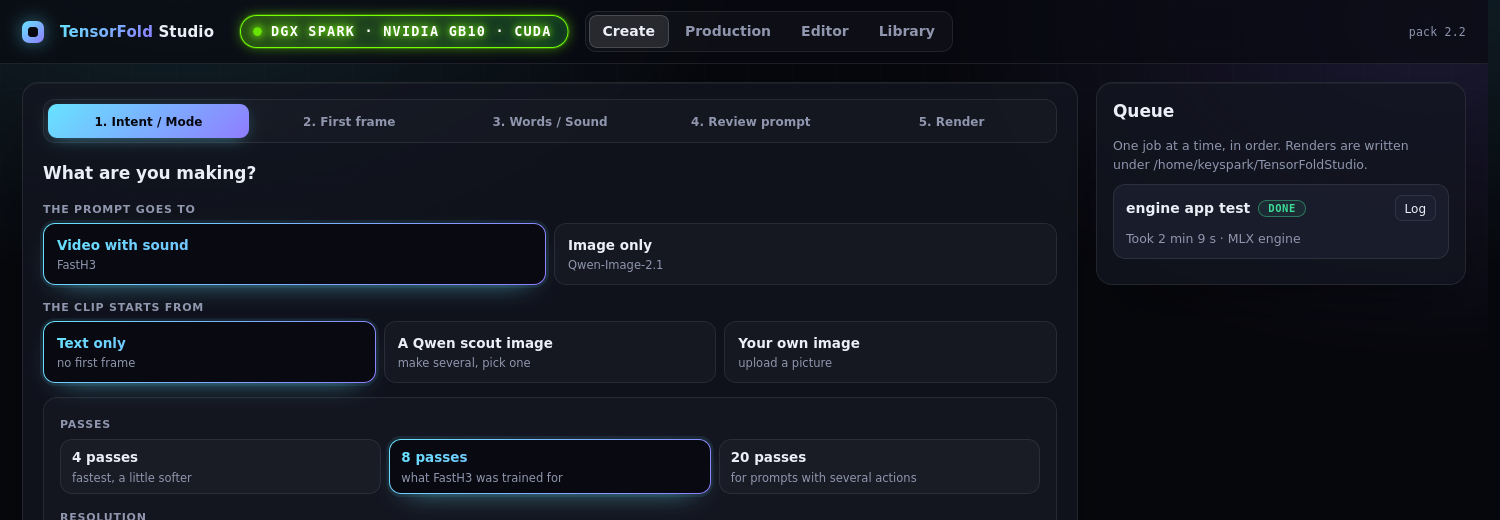
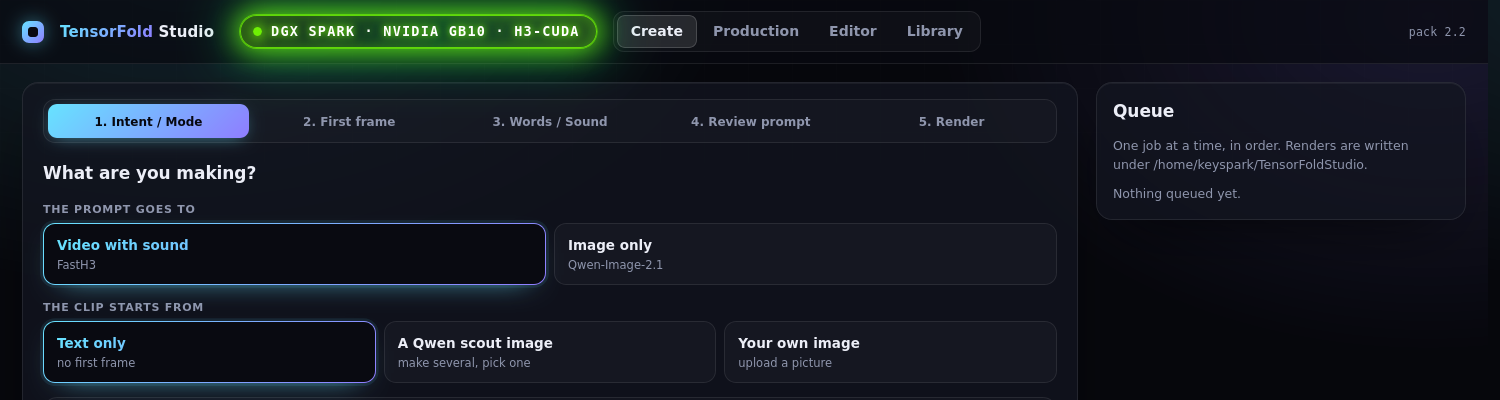
Build badge names the engine: H3-CUDA on a DGX Spark, H3-METAL on a Mac
Also SPARK_TIMING=1 (how long each workflow node ran) and TF_H3_CHECK=2 (which int8 rounding costs what).

Claude-Session: https://claude.ai/code/session_01PrUiTH1dGwnVKrpFLkoGHj

diff --git a/spark/tensorfold_h3/__init__.py b/spark/tensorfold_h3/__init__.py
@@ -182,7 +182,78 @@ class Blocks:
                              f"cosine {cosine(got, want):.5f}, relative error {error:.4f}")
             del want
 
+    def sources(self, args):
+        """TF_H3_CHECK=2: which rounding costs what. ComfyUI's own block with one of the engine's int8 roundings
+        emulated at a time, against the same block untouched; errors are relative to what the block adds."""
+        import comfy.ops
+
+        options = args["transformer_options"]
+
+        def rows(x, group=0):
+            # int8 with a scale a row (or a row and `group` columns), as the engine rounds activations
+            shape = x.shape
+            y = x.float().reshape(shape[0], -1, group) if group else x.float().reshape(shape[0], 1, -1)
+            top = y.abs().amax(dim=-1, keepdim=True).clamp_min(1e-12)
+            return ((y * (127.0 / top)).round().clamp(-127, 127) * (top / 127.0)).reshape(shape).to(x.dtype)
+
+        def split(x, count=128):
+            # the same, with the `count` channels that peak highest rounded on a scale of their own
+            y = x.float()
+            peaks = y.abs().amax(dim=0)
+            chosen = torch.zeros_like(peaks, dtype=torch.bool)
+            chosen[torch.topk(peaks, count).indices] = True
+            out = torch.empty_like(y)
+            out[:, chosen] = rows(y[:, chosen])
+            out[:, ~chosen] = rows(y[:, ~chosen])
+            crests.append(float((y.abs().amax(dim=1) / y.pow(2).mean(dim=1).sqrt()).mean()))
+            crests.append(float((y[:, ~chosen].abs().amax(dim=1) / y[:, ~chosen].pow(2).mean(dim=1).sqrt()).mean()))
+            return out.to(x.dtype)
+
+        crests = []
+
+        def wrap_input(module, quant):
+            original = module.forward
+            module.forward = lambda x, *a, **k: original(quant(x), *a, **k)
+            return lambda: setattr(module, "forward", original)
+
+        h = args["img"].clone()
+        for index in (0, 12, 25, 40, 49):
+            block = self.model.blocks[index]
+            # the stream as this block meets it
+            x = args["img"].clone()
+            for before in self.model.blocks[:index]:
+                x = before(x, args["t_emb"], args["mod_segments"], args["rope_freqs"], transformer_options=options)
+            want = block(x.clone(), args["t_emb"], args["mod_segments"], args["rope_freqs"], transformer_options=options)
+            added = float((want.float() - x.float()).norm())
+            xf = x.float()
+            crest = float((xf.abs().amax(dim=1) / xf.pow(2).mean(dim=1).sqrt()).mean())
+            peaks = xf.abs().amax(dim=0)
+            top = torch.topk(peaks, 64).values
+            report = [f"block {index}: stream crest {crest:.1f} (a row's largest over its rms), the 64 largest channels peak at "
+                      f"{float(top.min()):.1f} to {float(top.max()):.1f} against a median channel peak of {float(peaks.median()):.2f}"]
+            tests = {"q k v input rows": [(block.attn.qkv_proj, rows)], "attention out input rows": [(block.attn.out_proj, rows)],
+                     "mlp input rows": [(block.mlp.fc1, rows)], "all three": [(block.attn.qkv_proj, rows), (block.attn.out_proj, rows), (block.mlp.fc1, rows)],
+                     "all three, 128 channels apart": [(block.attn.qkv_proj, split), (block.attn.out_proj, split), (block.mlp.fc1, split)],
+                     "all three, 32 apart": [(block.attn.qkv_proj, lambda x: split(x, 32)), (block.attn.out_proj, lambda x: split(x, 32)), (block.mlp.fc1, lambda x: split(x, 32))]}
+            for label, wraps in tests.items():
+                undo = [wrap_input(module, quant) for module, quant in wraps]
+                got = block(x.clone(), args["t_emb"], args["mod_segments"], args["rope_freqs"], transformer_options=options)
+                for u in undo:
+                    u()
+                report.append(f"{label} {float((got.float() - want.float()).norm()) / added:.4f}")
+            got = x.clone()
+            self.run({**args, "img": got}, blocks=1, dense=True) if index == 0 else None
+            if index == 0:
+                report.append(f"the engine's whole block {float((got.float() - want.float()).norm()) / added:.4f}")
+            report.append("crest of q k v / attention out / mlp inputs, whole then without the 128: " + " ".join(f"{c:.1f}" for c in crests[:6]))
+            crests.clear()
+            logging.info("TensorFold H3 sources: " + "; ".join(report))
+            del want, x
+
     def first(self, args, extra):
+        if os.environ.get("TF_H3_CHECK") == "2" and not self.checked:
+            self.checked = True
+            self.sources(args)
         if os.environ.get("TF_H3_CHECK") == "1" and not self.checked:
             self.checked = True
             self.check(args)

diff --git a/spark/spark_generate.py b/spark/spark_generate.py
@@ -103,6 +103,7 @@ async def run(workflow: dict, sampler: str) -> str:
     async with aiohttp.ClientSession() as session:
         async with session.ws_connect(URL.replace("http", "ws", 1) + f"/ws?clientId={client}", max_msg_size=0) as ws:
             prompt_id = call("/prompt", {"prompt": workflow, "client_id": client})["prompt_id"]
+            stages, running, since = [], None, time.time()
             async for message in ws:
                 if message.type != aiohttp.WSMsgType.TEXT:
                     continue
@@ -112,10 +113,17 @@ async def run(workflow: dict, sampler: str) -> str:
                     continue
                 if event["type"] == "progress" and str(data.get("node")) == sampler:
                     print(f"[tensorfold] step {data['value']}/{data['max']}", flush=True)
-                elif event["type"] == "executing" and data.get("node") is None:
-                    break
+                elif event["type"] == "executing":
+                    # SPARK_TIMING=1: how long each node of the workflow ran
+                    if running is not None:
+                        stages.append((workflow[running]["class_type"], time.time() - since))
+                    running, since = (str(data["node"]) if data.get("node") is not None else None), time.time()
+                    if running is None:
+                        break
                 elif event["type"] in ("execution_error", "execution_interrupted", "execution_success"):
                     break
+    if os.environ.get("SPARK_TIMING") == "1":
+        print("[tensorfold] stages: " + ", ".join(f"{name} {took:.1f} s" for name, took in stages if took >= 0.05), flush=True)
     return prompt_id
 
 

diff --git a/app/server.py b/app/server.py
@@ -110,12 +110,12 @@ def machine() -> tuple[str, str]:
                                  text=True).stdout.strip().splitlines()[0]
         except (OSError, IndexError):
             gpu = "CUDA"
-        return "spark", f"DGX SPARK · {gpu} · CUDA"
+        return "spark", f"DGX SPARK · {gpu.upper()} · H3-CUDA"
     try:
         chip = subprocess.run(["sysctl", "-n", "machdep.cpu.brand_string"], capture_output=True, text=True).stdout.strip()
     except OSError:
         chip = ""
-    return "mac", f"MAC · {chip.replace('Apple ', '') or 'Apple Silicon'} · METAL"
+    return "mac", f"MAC · APPLE SILICON {chip.replace('Apple ', '').upper()} · H3-METAL".replace("  ", " ")
 
 
 app = FastAPI(title="TensorFold Studio")

diff --git a/README.md b/README.md
@@ -60,8 +60,8 @@ The same Studio (web app, scripts, one-shot install) also runs on an **NVIDIA DG
 memory, CUDA 13). FastH3's transformer runs there on **TensorFold's H3 family for CUDA**: the Mac engine's design
 (int8 projections, tile-routed int8 attention with FastH3's own sparse selection) on the GB10's tensor cores, written
 in Zig over the CUDA driver. **ComfyUI**, pinned, hosts the rest: the text encoder, the sampler, the decoders and
-Qwen-Image-2.1. The header of the web app says which build you are in: a green `DGX SPARK · NVIDIA GB10 · CUDA`
-badge, or `MAC · M5 Ultra · METAL`.
+Qwen-Image-2.1. The header of the web app says which build you are in: a green `DGX SPARK · NVIDIA GB10 · H3-CUDA`
+badge, or a purple `MAC · APPLE SILICON M5 ULTRA · H3-METAL`.
 
 **Thank you** to Ash Hart for TensorFold, FastVideo (Hao AI Lab) for FastH3 and its ComfyUI release, MiniMax for H3,
 the Qwen team for Qwen-Image-2.1-Turbo, and the ComfyUI team for the runtime this build stands on.
